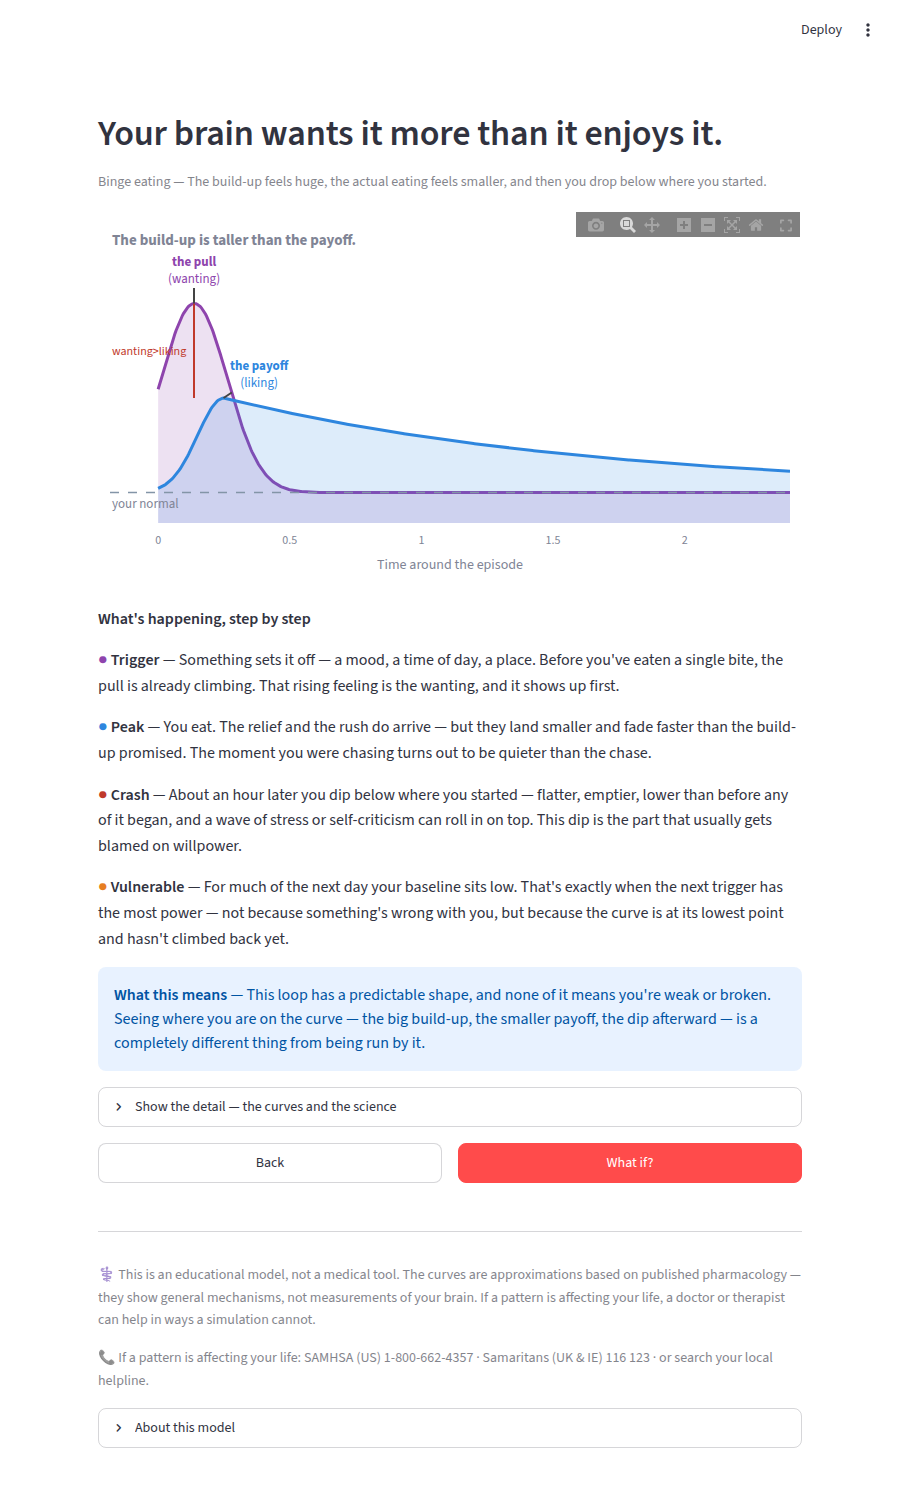
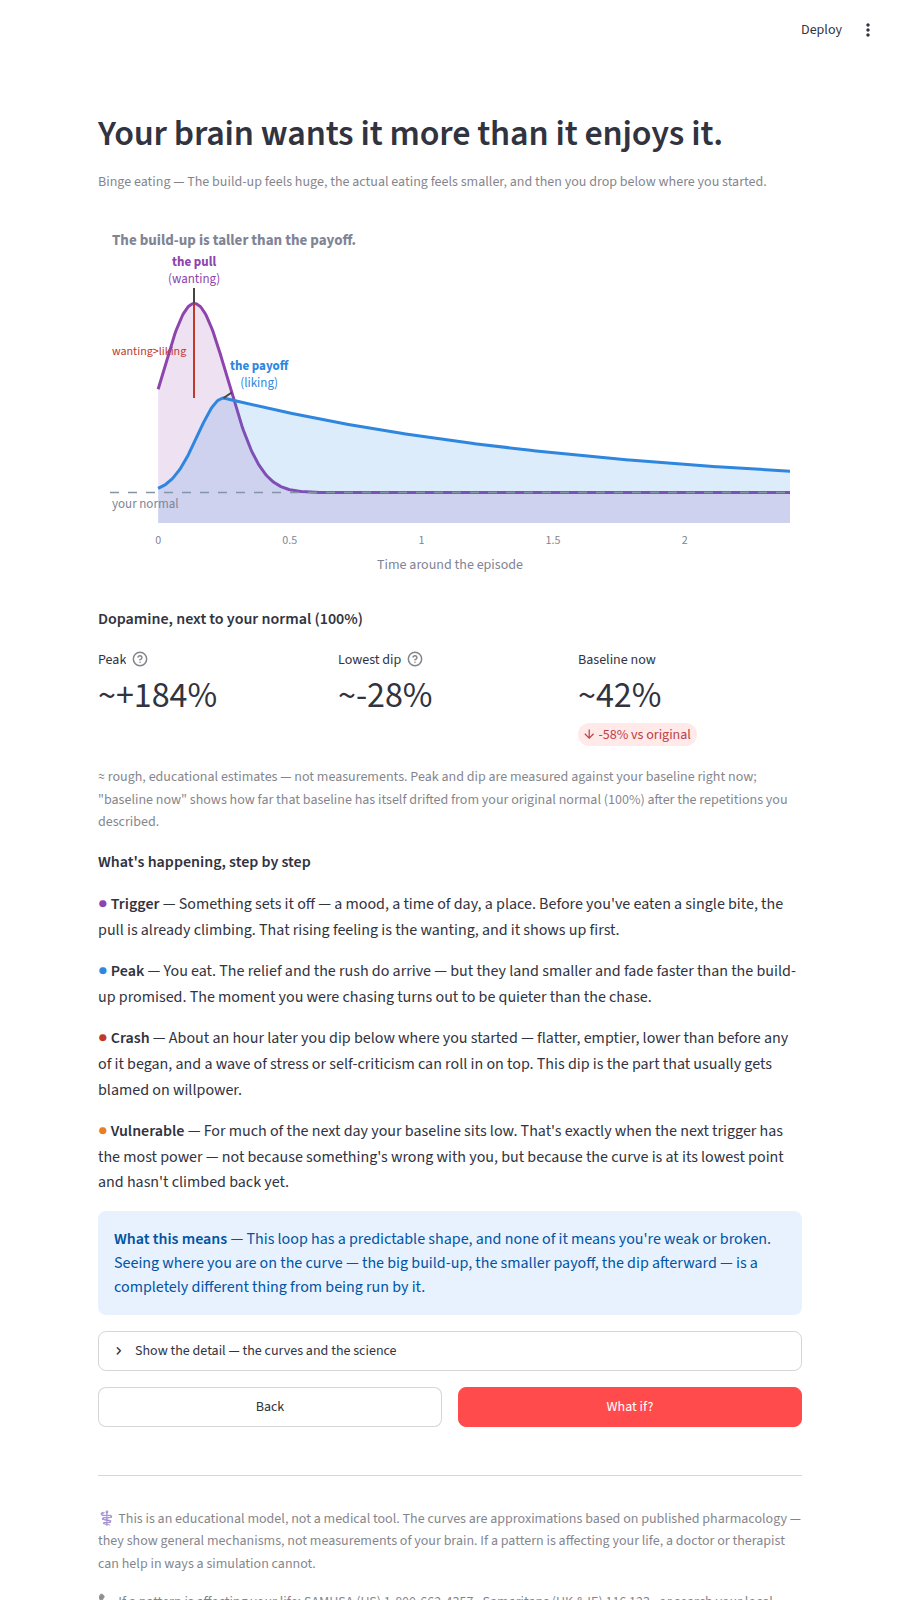
Add approximate dopamine level indicator (Peak/dip/baseline), honest for non-dopamine loops
- Per-loop meter under the chart: peak & dip vs current baseline, baseline vs
  original (allostatic erosion). Values marked approximate (~ / 'rough estimates').
- stories.py: dopamine_primary + main_driver; caffeine/alcohol show a note that
  dopamine isn't the main driver (adenosine / GABA-glutamate).

Claude-Session: https://claude.ai/code/session_01S83w3s8cPnYgTGQgRhQHu2

Changed region(s): [[0.0933, 0.0613, 0.9022, 0.9813], [0.9022, 0.0, 0.9333, 0.0307]]

diff --git a/app.py b/app.py
@@ -183,6 +183,24 @@ def screen_narrated() -> None:
         fig = charts.detail_timeline_figure(timeline, phases)
     st.plotly_chart(fig, use_container_width=True, config=PLOTLY_CONFIG)
 
+    # Dopamine level indicator — approximate, and honest about non-dopamine loops.
+    # Peak/dip are measured against the CURRENT baseline (a spike is always a
+    # spike); "baseline now" carries the allostatic erosion vs the original 100%.
+    dop = timeline["dopamine"]
+    base_val = float(timeline["effective_baseline"]) or 1e-6
+    peak_rel = int(round((float(dop.max()) / base_val - 1.0) * 100))
+    dip_rel = int(round((float(dop.min()) / base_val - 1.0) * 100))
+    base_pct = int(round(base_val * 100))
+    st.markdown(f"**{C.t('dopamine_meter_heading')}**")
+    m1, m2, m3 = st.columns(3)
+    m1.metric(C.t("meter_peak"), f"~+{peak_rel}%", help="above your baseline right now")
+    m2.metric(C.t("meter_crash"), f"~{dip_rel}%", help="below your baseline right now")
+    m3.metric(C.t("meter_baseline"), f"~{base_pct}%", f"{base_pct - 100:+d}% vs original")
+    st.caption(C.t("dopamine_meter_caption"))
+    if story and not story.get("dopamine_primary", True):
+        st.caption("ℹ️ " + C.t("dopamine_secondary_note").format(
+            driver=story.get("main_driver", "another system")))
+
     # Four plain steps.
     st.markdown(f"**{C.t('phases_heading')}**")
     for p in phases:

diff --git a/loop/copy.py b/loop/copy.py
@@ -42,6 +42,21 @@ COPY: dict[str, dict] = {
         "legend_dopamine": "Dopamine",
         "legend_cortisol": "Cortisol (stress)",
         "legend_baseline": "Your baseline",
+        "dopamine_meter_heading": "Dopamine, next to your normal (100%)",
+        "meter_peak": "Peak",
+        "meter_crash": "Lowest dip",
+        "meter_baseline": "Baseline now",
+        "dopamine_meter_caption": (
+            "≈ rough, educational estimates — not measurements. Peak and dip are "
+            "measured against your baseline right now; \"baseline now\" shows how "
+            "far that baseline has itself drifted from your original normal (100%) "
+            "after the repetitions you described."
+        ),
+        "dopamine_secondary_note": (
+            "Heads up: for this loop dopamine isn't the main driver — {driver} "
+            "is. These numbers are the smaller dopamine side of the story; the "
+            "detail below explains the rest."
+        ),
         "phases_heading": "What's happening, step by step",
         "what_this_means_label": "What this means",
         "detail_expander": "Show the detail — the curves and the science",

diff --git a/loop/stories.py b/loop/stories.py
@@ -19,6 +19,8 @@ from __future__ import annotations
 LOOP_STORIES: dict[str, dict] = {
     "binge_eating": {
         "kind": "two_peaks",
+        "dopamine_primary": True,
+        "main_driver": "",
         "headline": "Your brain wants it more than it enjoys it.",
         "one_line": "The build-up feels huge, the actual eating feels smaller, and then you drop below where you started.",
         "trigger": "Something sets it off — a mood, a time of day, a place. Before you've eaten a single bite, the pull is already climbing. That rising feeling is the wanting, and it shows up first.",
@@ -31,6 +33,8 @@ LOOP_STORIES: dict[str, dict] = {
     },
     "porn": {
         "kind": "escalation",
+        "dopamine_primary": True,
+        "main_driver": "",
         "headline": "Each time, it takes more to feel the same.",
         "one_line": "A huge, fast spike — then a drop below where you started, and next time the bar sits higher.",
         "trigger": "Something grabs your attention and the pull kicks in. What drives this loop more than most is the chase for something new — and the wanting climbs before anything has actually happened.",
@@ -43,6 +47,8 @@ LOOP_STORIES: dict[str, dict] = {
     },
     "nicotine": {
         "kind": "sinking_floor",
+        "dopamine_primary": True,
+        "main_driver": "",
         "headline": "Each hit fixes the craving the last one caused.",
         "one_line": "It doesn't lift you above normal — it lowers your normal, so each one just hauls you back up.",
         "trigger": "A few hours since the last one, and a low restlessness starts to build. Then a coffee, a step outside, a stressful minute — and the pull is already there before you've reached for anything.",
@@ -55,6 +61,8 @@ LOOP_STORIES: dict[str, dict] = {
     },
     "doomscrolling": {
         "kind": "no_satiety",
+        "dopamine_primary": True,
+        "main_driver": "",
         "headline": "Your brain never gets the signal to stop.",
         "one_line": "Each swipe is a tiny maybe-reward and the feed never ends, so nothing ever tells you you're done.",
         "trigger": "A dull second, a notification, a queue to stand in, and your thumb has opened the app before you've decided anything.",
@@ -67,6 +75,8 @@ LOOP_STORIES: dict[str, dict] = {
     },
     "alcohol": {
         "kind": "overnight_rebound",
+        "dopamine_primary": False,
+        "main_driver": "GABA calm, then a glutamate rebound",
         "headline": "The calm tonight becomes the edge tomorrow morning.",
         "one_line": "It turns the volume down on your nerves tonight, so they come back up louder in the morning.",
         "trigger": "Something signals it's time — the end of a long day, a social thing, a knot of stress — and the pull to take the edge off shows up before the first sip.",
@@ -79,6 +89,8 @@ LOOP_STORIES: dict[str, dict] = {
     },
     "caffeine": {
         "kind": "energy_loan",
+        "dopamine_primary": False,
+        "main_driver": "adenosine (blocked, not boosted)",
         "headline": "You're borrowing energy, not making it.",
         "one_line": "Caffeine doesn't add energy — it hides the tiredness you already have, then hands it back later.",
         "trigger": "The afternoon slump hits — or it's just the time you always have one — and you reach for the cup before you've really decided to.",